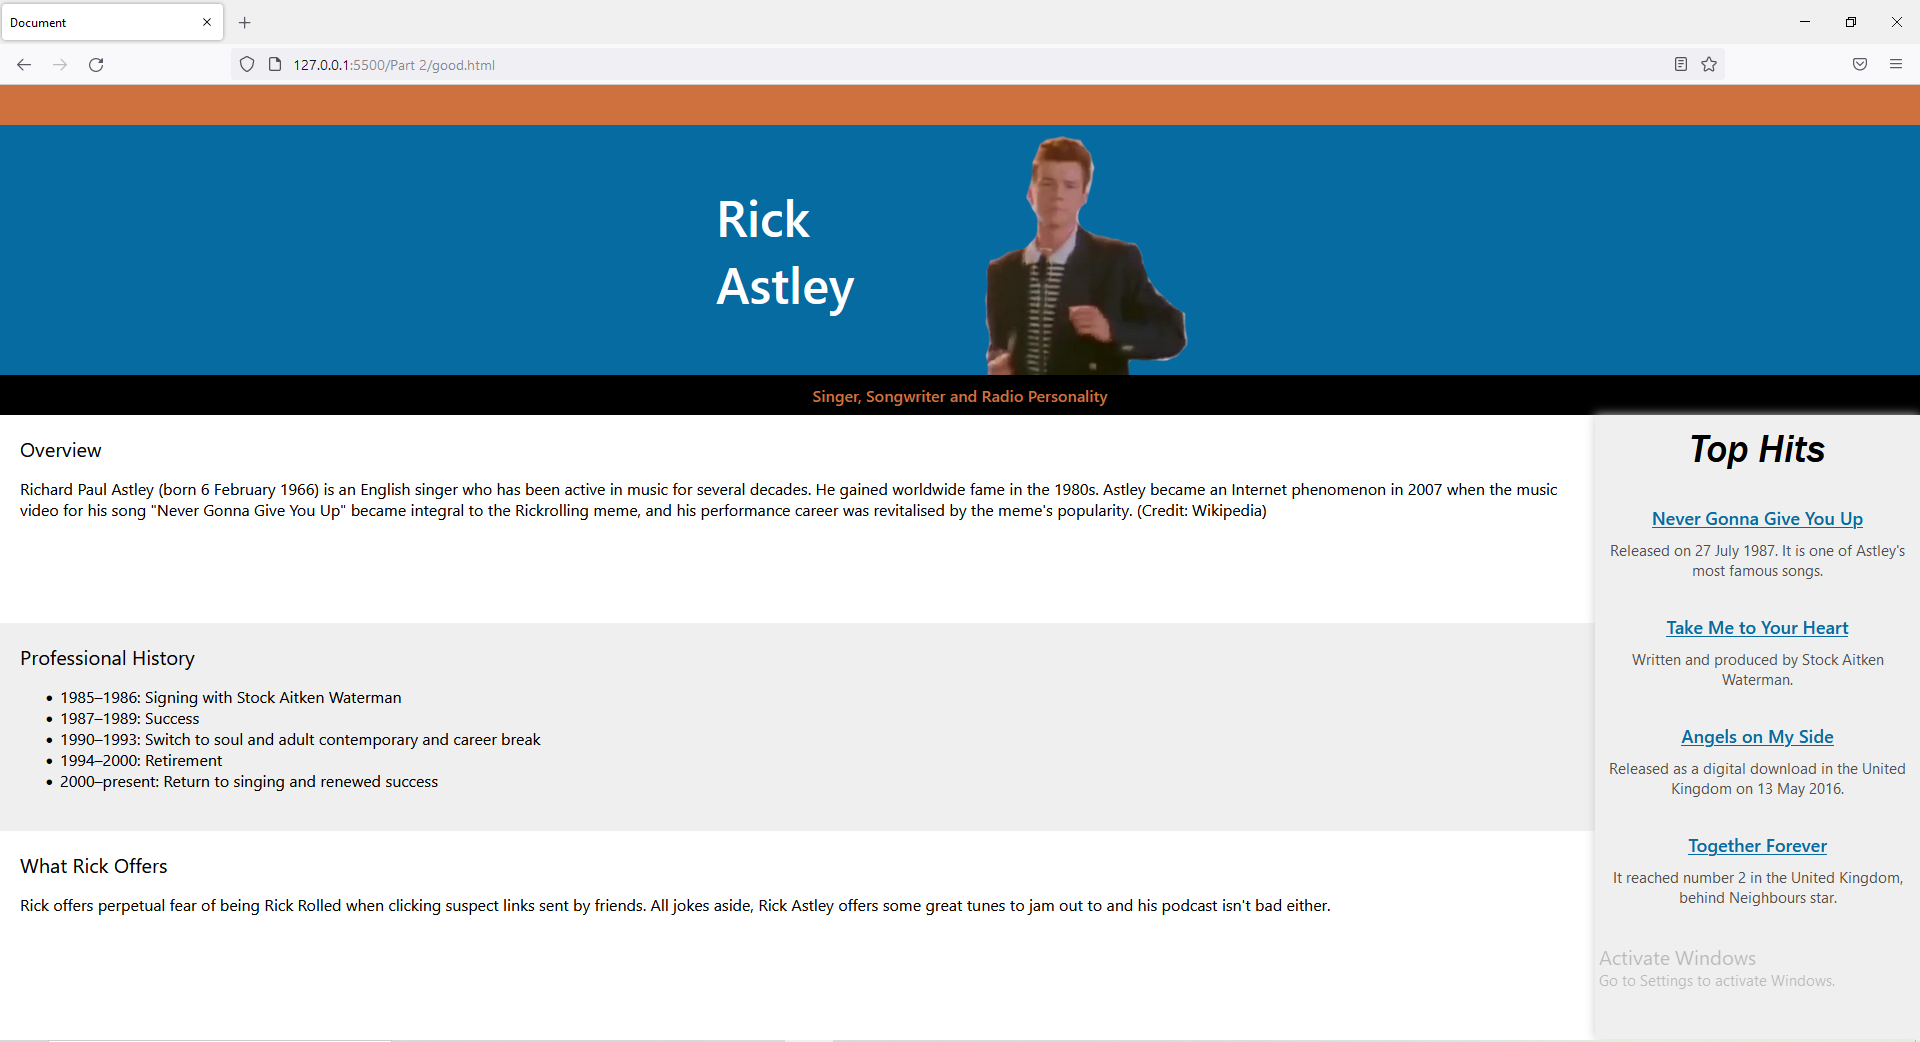
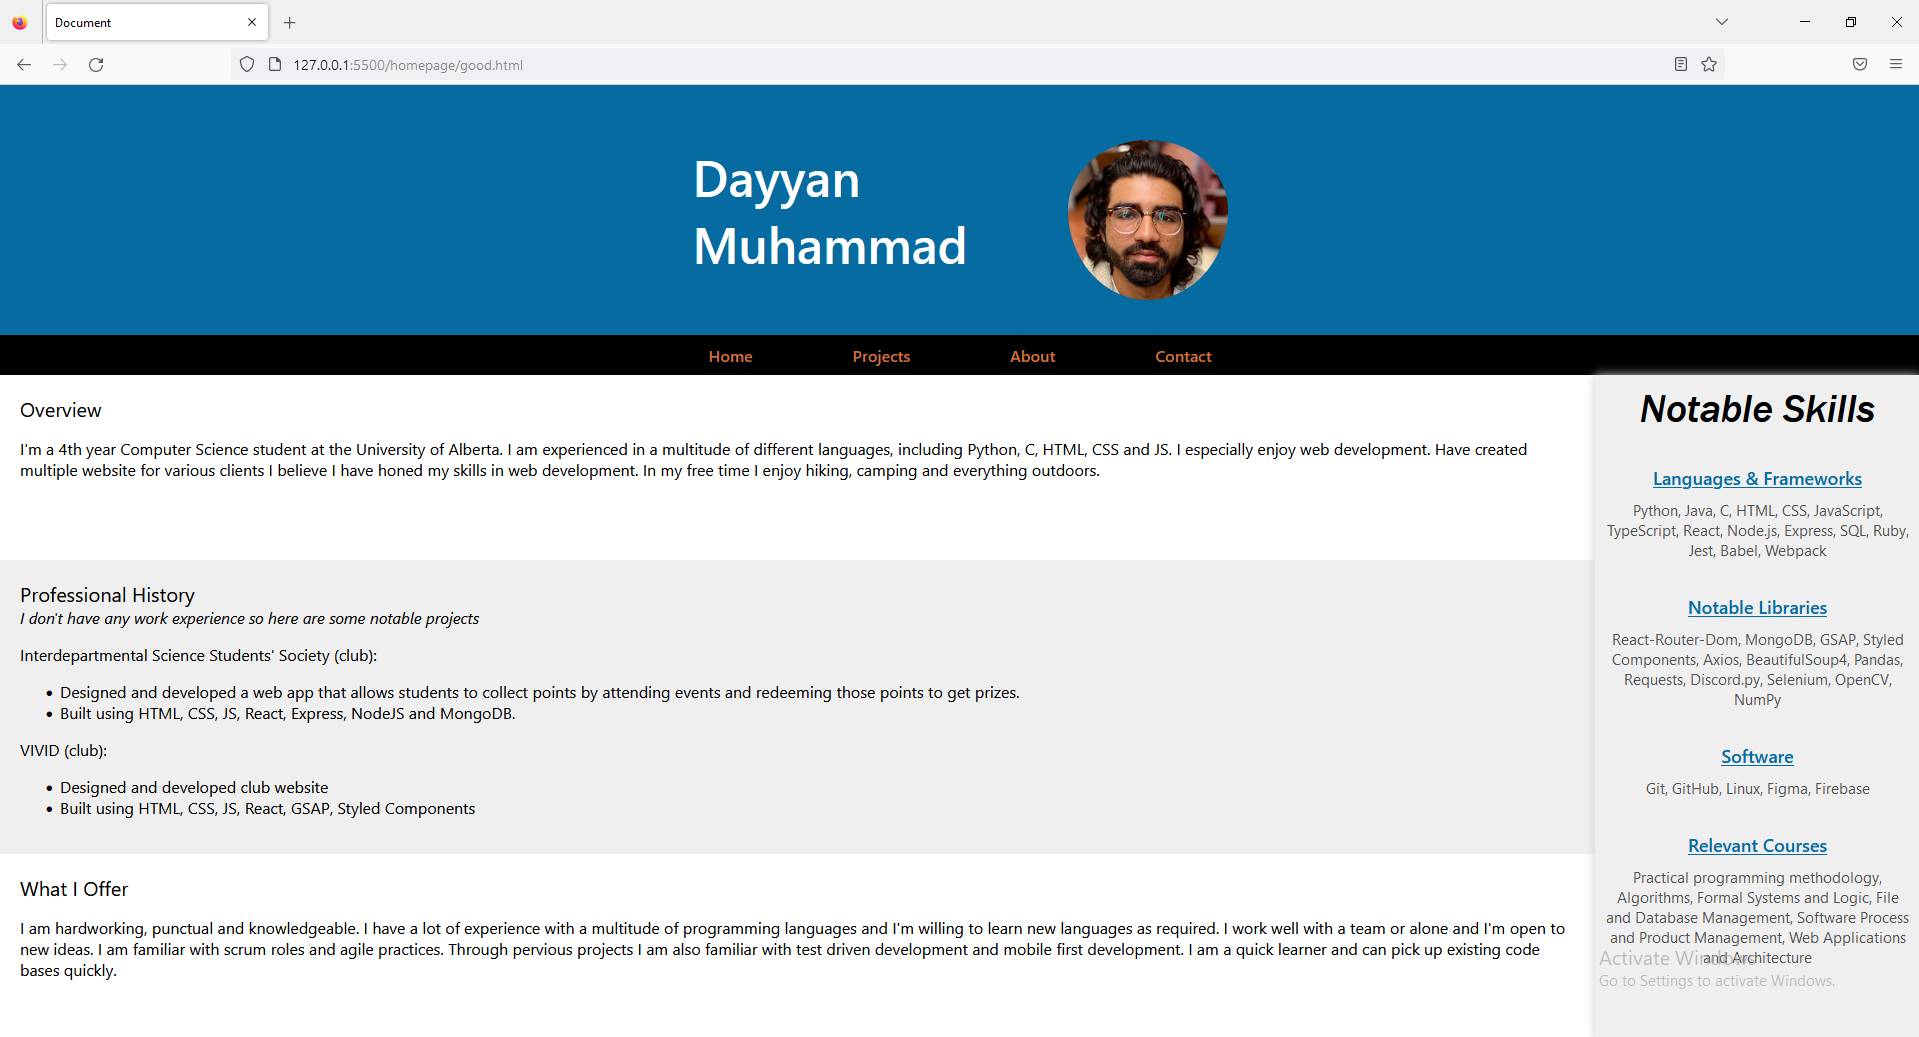
updated homepage

diff --git a/homepage/ugly.html b/homepage/ugly.html
@@ -8,13 +8,12 @@
     <link rel="stylesheet" href="ugly.css" />
   </head>
   <body>
-    <div id="header"></div>
     <div id="hero">
-      <div id="hero-name">Rick<br />Astley</div>
+      <div id="hero-name">Dayyan<br />Muhammad</div>
       <img
-        src="./images/Get_Rick_Rolled.webp"
+        src="./images/pic.jpg"
         id="hero-img"
-        alt="Rick Astley"
+        alt="Dayyan Muhammad"
       />
       <img
         src="./images/nice.png"
@@ -22,48 +21,60 @@
         alt="Nice"
       />
     </div>
-    <div id="hero-banner">Singer, Songwriter and Radio Personality</div>
+    <div id="nav-banner">
+      <a class="nav-item" href="">Home</a>
+      <a class="nav-item" href="">Projects</a>
+      <a class="nav-item" href="">About</a>
+      <a class="nav-item" href="">Contact</a>
+    </div>
     <div id="info-container">
       <div id="info-left">
         <div class="info-section">
           <div class="info-title">Overview</div>
           <p class="info-description">
-            Richard Paul Astley (born 6 February 1966) is an English singer who
-            has been active in music for several decades. He gained worldwide
-            fame in the 1980s. Astley became an Internet phenomenon in 2007 when
-            the music video for his song "Never Gonna Give You Up" became
-            integral to the Rickrolling meme, and his performance career was
-            revitalised by the meme's popularity. (Credit: Wikipedia)
+            I'm a 4th year Computer Science student at the University of Alberta. I am experienced in a multitude of different 
+            languages, including Python, C, HTML, CSS and JS. I especially enjoy web development. Have created multiple website 
+            for various clients I believe I have honed my skills in web development. In my free time I enjoy hiking, camping and 
+            everything outdoors.  
           </p> 
         </div>
         <div class="info-section odd">
           <div class="info-title">Professional History</div>
+          <i>I don't have any work experience so here are some notable projects</i>
           <p class="info-description">
-            <ul>
-              <li>1985–1986: Signing with Stock Aitken Waterman</li>
-              <li>1987–1989: Success</li>
-              <li>1990–1993: Switch to soul and adult contemporary and career break</li>
-              <li>1994–2000: Retirement</li>
-              <li>2000–present: Return to singing and renewed success</li>
-            </ul>
+              Interdepartmental Science Students' Society (club):  
+              <ul>
+                <li>Designed and developed a web app that allows students to collect points by attending events and redeeming those points to get prizes. </li>
+                <li>Built using HTML, CSS, JS, React, Express, NodeJS and MongoDB.</li>
+              </ul>
+              VIVID (club): 
+              <ul>
+                <li>Designed and developed club website</li>
+                <li>Built using HTML, CSS, JS, React, GSAP, Styled Components</li>
+              </ul>
           </p>
         </div>
         <div class="info-section">
-          <div class="info-title">What Rick Offers</div>
-          <p class="info-description"> Rick offers perpetual fear of being Rick Rolled when clicking suspect links sent by friends. All jokes aside, Rick Astley offers some great tunes to jam out to and his podcast isn't bad either.</p>
+          <div class="info-title">What I Offer</div>
+          <p class="info-description">
+            I am hardworking, punctual and knowledgeable. I have a lot of experience with a multitude of 
+            programming languages and I'm willing to learn new languages as required. I work well with a team or alone and I'm open 
+            to new ideas. I am familiar with scrum roles and agile practices. Through pervious projects I am also familiar with test 
+            driven development and mobile first development. I am a quick learner and can pick up existing code bases quickly.
+          </p>
         </div>
       </div>
       <div id="info-right">
-        <div id="top-hits-title">Top Hits</div>
+        <div id="top-hits-title">Important Points</div>
         <div class="top-hits">
           <a
             href="https://www.youtube.com/watch?v=dQw4w9WgXcQ"
             class="top-hits-title"
           >
-            Never Gonna Give You Up
+          Languages & Frameworks
           </a>
           <div class="top-hits-description">
-            Released on 27 July 1987. It is one of Astley's most famous songs.
+            Python, Java, C, HTML, CSS, JavaScript, TypeScript, React, Node.js, Express, SQL, Ruby, Jest, Babel, Webpack
           </div>
         </div>
         <div class="top-hits">
@@ -71,10 +82,10 @@
             href="https://www.youtube.com/watch?v=dQw4w9WgXcQ"
             class="top-hits-title"
           >
-            Take Me to Your Heart
+          Notable Libraries
           </a>
           <div class="top-hits-description">
-            Written and produced by Stock Aitken Waterman.
+            React-Router-Dom, MongoDB, GSAP, Styled Components, Axios, BeautifulSoup4, Pandas, Requests, Discord.py, Selenium, OpenCV, NumPy
           </div>
         </div>
         <div class="top-hits">
@@ -82,20 +93,21 @@
             href="https://www.youtube.com/watch?v=dQw4w9WgXcQ"
             class="top-hits-title"
           >
-            Angels on My Side
+            Software
           </a>
           <div class="top-hits-description">
-            Released as a digital download in the United Kingdom on 13 May 2016.
+            Git, GitHub, Linux, Figma, Firebase
           </div>
         </div>
         <div class="top-hits">
           <a
             href="https://www.youtube.com/watch?v=dQw4w9WgXcQ"
             class="top-hits-title"
-            >Together Forever</a
+            >Relevant Courses</a
           >
           <div class="top-hits-description">
-            It reached number 2 in the United Kingdom, behind Neighbours star.
+            Practical programming methodology, Algorithms, 
+            Formal Systems and Logic, File and Database Management, Software Process and Product Management, Web Applications and Architecture
           </div>
         </div>
         <div class="ugly-img-container">

diff --git a/homepage/good.html b/homepage/good.html
@@ -8,11 +8,10 @@
     <link rel="stylesheet" href="good.css" />
   </head>
   <body>
-    <!-- <div id="header"></div> -->
     <div id="hero">
       <div id="hero-name">Dayyan<br />Muhammad</div>
       <img
-        src="./images/Get_Rick_Rolled.webp"
+        src="./images/pic.jpg"
         id="hero-img"
         alt="Dayyan Muhammad"
       />
@@ -22,17 +21,26 @@
         alt="Nice"
       />
     </div>
-    <div id="hero-banner">Computer Science Student</div>
+    <div id="nav-banner">
+      <a class="nav-item" href="">Home</a>
+      <a class="nav-item" href="">Projects</a>
+      <a class="nav-item" href="">About</a>
+      <a class="nav-item" href="">Contact</a>
+    </div>
     <div id="info-container">
       <div id="info-left">
         <div class="info-section">
           <div class="info-title">Overview</div>
           <p class="info-description">
-            I'm a 4th year Computer Science student at the University of Alberta. I am experianced in a multitude of different lanugages, including Python, C, HTML, CSS and JS. I especially enjoy web development. Have created multiple website for various clients I believe I have honed my skills in web development. In my free time I enjoy hiking, camping and everything outdoors.  
+            I'm a 4th year Computer Science student at the University of Alberta. I am experienced in a multitude of different 
+            languages, including Python, C, HTML, CSS and JS. I especially enjoy web development. Have created multiple website 
+            for various clients I believe I have honed my skills in web development. In my free time I enjoy hiking, camping and 
+            everything outdoors.  
           </p> 
         </div>
         <div class="info-section odd">
           <div class="info-title">Professional History</div>
+          <i>I don't have any work experience so here are some notable projects</i>
           <p class="info-description">
               Interdepartmental Science Students' Society (club):  
               <ul>
@@ -48,20 +56,25 @@
         </div>
         <div class="info-section">
           <div class="info-title">What I Offer</div>
-          <p class="info-description">I am hardworking, punctual and knowledgeable. I have a lot of experience with a multitude of programming languages and I'm willing to learn new languages as required. I work well with a team or alone and I'm open to new ideas.</p>
+          <p class="info-description">
+            I am hardworking, punctual and knowledgeable. I have a lot of experience with a multitude of 
+            programming languages and I'm willing to learn new languages as required. I work well with a team or alone and I'm open 
+            to new ideas. I am familiar with scrum roles and agile practices. Through pervious projects I am also familiar with test 
+            driven development and mobile first development. I am a quick learner and can pick up existing code bases quickly.
+          </p>
         </div>
       </div>
       <div id="info-right">
-        <div id="top-hits-title">Projects</div>
+        <div id="top-hits-title">Important Points</div>
         <div class="top-hits">
           <a
             href="https://www.youtube.com/watch?v=dQw4w9WgXcQ"
             class="top-hits-title"
           >
-            ISSS Rewards Website
+          Languages & Frameworks
           </a>
           <div class="top-hits-description">
-            HTML, CSS, JS, React, Express, NodeJS and MongoDB
+            Python, Java, C, HTML, CSS, JavaScript, TypeScript, React, Node.js, Express, SQL, Ruby, Jest, Babel, Webpack
           </div>
         </div>
         <div class="top-hits">
@@ -69,10 +82,10 @@
             href="https://www.youtube.com/watch?v=dQw4w9WgXcQ"
             class="top-hits-title"
           >
-            VIVID website
+          Notable Libraries
           </a>
           <div class="top-hits-description">
-            HTML, CSS, JS, React, Style Components, GSAP
+            React-Router-Dom, MongoDB, GSAP, Styled Components, Axios, BeautifulSoup4, Pandas, Requests, Discord.py, Selenium, OpenCV, NumPy
           </div>
         </div>
         <div class="top-hits">
@@ -80,20 +93,21 @@
             href="https://www.youtube.com/watch?v=dQw4w9WgXcQ"
             class="top-hits-title"
           >
-            CSL Esignature
+            Software
           </a>
           <div class="top-hits-description">
-            HTML, CSS, JS, React, Express, NodeJS, MongoDB
+            Git, GitHub, Linux, Figma, Firebase
           </div>
         </div>
         <div class="top-hits">
           <a
             href="https://www.youtube.com/watch?v=dQw4w9WgXcQ"
             class="top-hits-title"
-            >Social Media App</a
+            >Relevant Courses</a
           >
           <div class="top-hits-description">
-            Jinja2, FastAPI
+            Practical programming methodology, Algorithms, 
+            Formal Systems and Logic, File and Database Management, Software Process and Product Management, Web Applications and Architecture
           </div>
         </div>
         <div class="ugly-img-container">

diff --git a/homepage/ugly.css b/homepage/ugly.css
@@ -35,24 +35,34 @@ body {
 
 #hero-img {
   height: 100%;
-  padding-top: 20px;
+  /* padding-top: 20px; */
+  height: 150px;
+  width: 150px;
+  border: 10px solid rgb(212, 0, 255);
 }
 
 #hero-img-ugly {
   height: 100%;
 }
 
-#hero-banner {
+#nav-banner {
   background-color: rgb(212, 0, 255);
   height: 40px;
   color: rgb(255, 0, 255);
   display: flex;
   justify-content: center;
   align-items: center;
+  gap: 100px;
   font-weight: 600;
   color: var(--orange);
-  content: url("./images/cat.png");
+  background-image: url("./images/cat.png");
+  background-size: contain;
   /* width: 100px; */
+}
+
+.nav-item {
+  color: yellow;
+  font-weight: 500;
 }
 
 #info-container {
@@ -131,5 +141,5 @@ body {
 }
 
 .ugly-img-container > img {
-  height: 100%;
+  height: 100px;
 }

diff --git a/homepage/good.css b/homepage/good.css
@@ -36,15 +36,16 @@ body {
 }
 
 #hero-img {
-  height: 100%;
+  height: 160px;
   padding-top: 20px;
+  border-radius: 50%;
 }
 
 #hero-img-ugly {
   display: none;
 }
 
-#hero-banner {
+#nav-banner {
   background-color: black;
   height: 40px;
   color: white;
@@ -52,6 +53,12 @@ body {
   justify-content: center;
   align-items: center;
   font-weight: 600;
+  color: var(--orange);
+  gap: 100px;
+}
+
+.nav-item {
+  text-decoration: none;
   color: var(--orange);
 }
 
